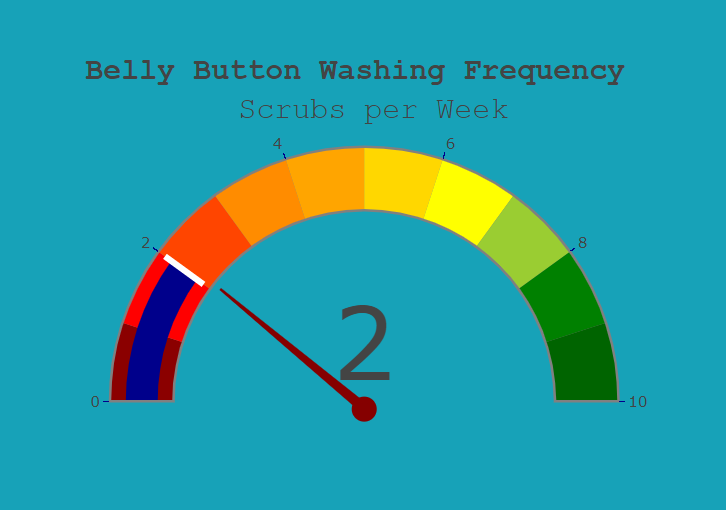
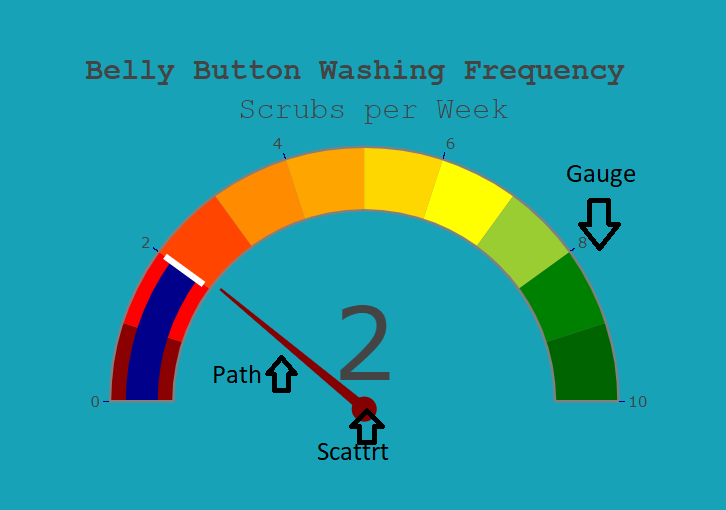
adding Read me

Changed region(s): [[0.7576, 0.3235, 0.8788, 0.5], [0.4242, 0.7941, 0.5455, 0.9118], [0.2727, 0.7059, 0.4242, 0.7941]]

diff --git a/README.md b/README.md
@@ -6,25 +6,21 @@ In this project, We will build an interactive dashboard to explore the [Belly Bu
 
 The dataset reveals that a small handful of microbial species (also called operational taxonomic units, or OTUs, in the study) were present in more than 70% of people, while the rest were relatively rare.
 
-The Dashboard can be viewed [ https://nima-karimii.github.io/Plotly-JS-Challenge/] ( https://nima-karimii.github.io/Plotly-JS-Challenge/)
-
+The Dashboard can be viewed at : https://nima-karimii.github.io/Plotly-JS-Challenge/ 
 
 ## Step 1: Plotly
 
-1. I Used the D3 library to read in `samples.json`.
+1. I used the D3 library to read in `samples.json`.
 
 2. I created a horizontal bar chart with a dropdown menu to display the top 10 OTUs found in that individual.
 ![](Images/dropdown.png)
-
 ![](Images/hw01.png)
 
-
-
 3. I create a bubble chart that displays each sample.
-
+* The color of OTUs in Bubble-chart are the same as Bar-chart. 
 ![Bubble Chart](Images/bubble_chart.png)
 
-4. I displayed the sample metadata, i.e., an individual's demographic information on the page
+4. I displayed the sample metadata, i.e., an individual's demographic information on the page.
 
 ![hw](Images/hw03.png)
 
@@ -32,11 +28,12 @@ The Dashboard can be viewed [ https://nima-karimii.github.io/Plotly-JS-Challenge
 
 ![hw](Images/Dashboard.PNG)
 
-7.I adapt the Gauge Chart from <https://plot.ly/javascript/gauge-charts/> to plot the weekly washing frequency of the individual. I used 3 plots from Plotly to show this gauge with arrow ; "Gauge", "Path" and "Scater".
+7.I adapted the Gauge Chart from <https://plot.ly/javascript/gauge-charts/> to plot the weekly washing frequency of the individual. I used 3 plots from Plotly to show this gauge with an arrow ; "Gauge", "Path" and "Scatter".
 
 ![Weekly Washing Frequency Gauge](Images/gauge.png)
 
 ### Hope you enjoy it.
+- - -
 
 ### About the Data
 
